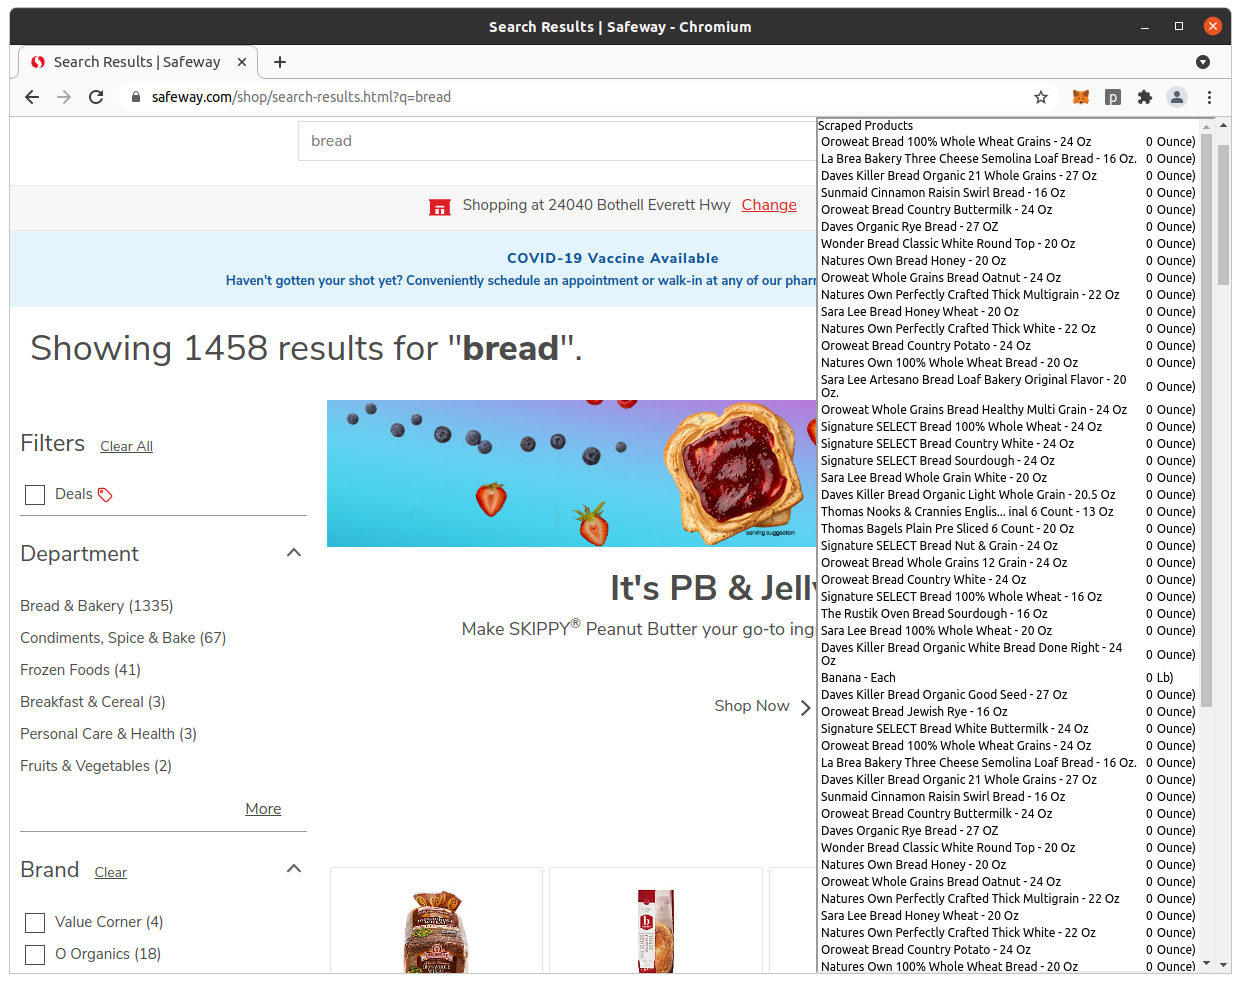
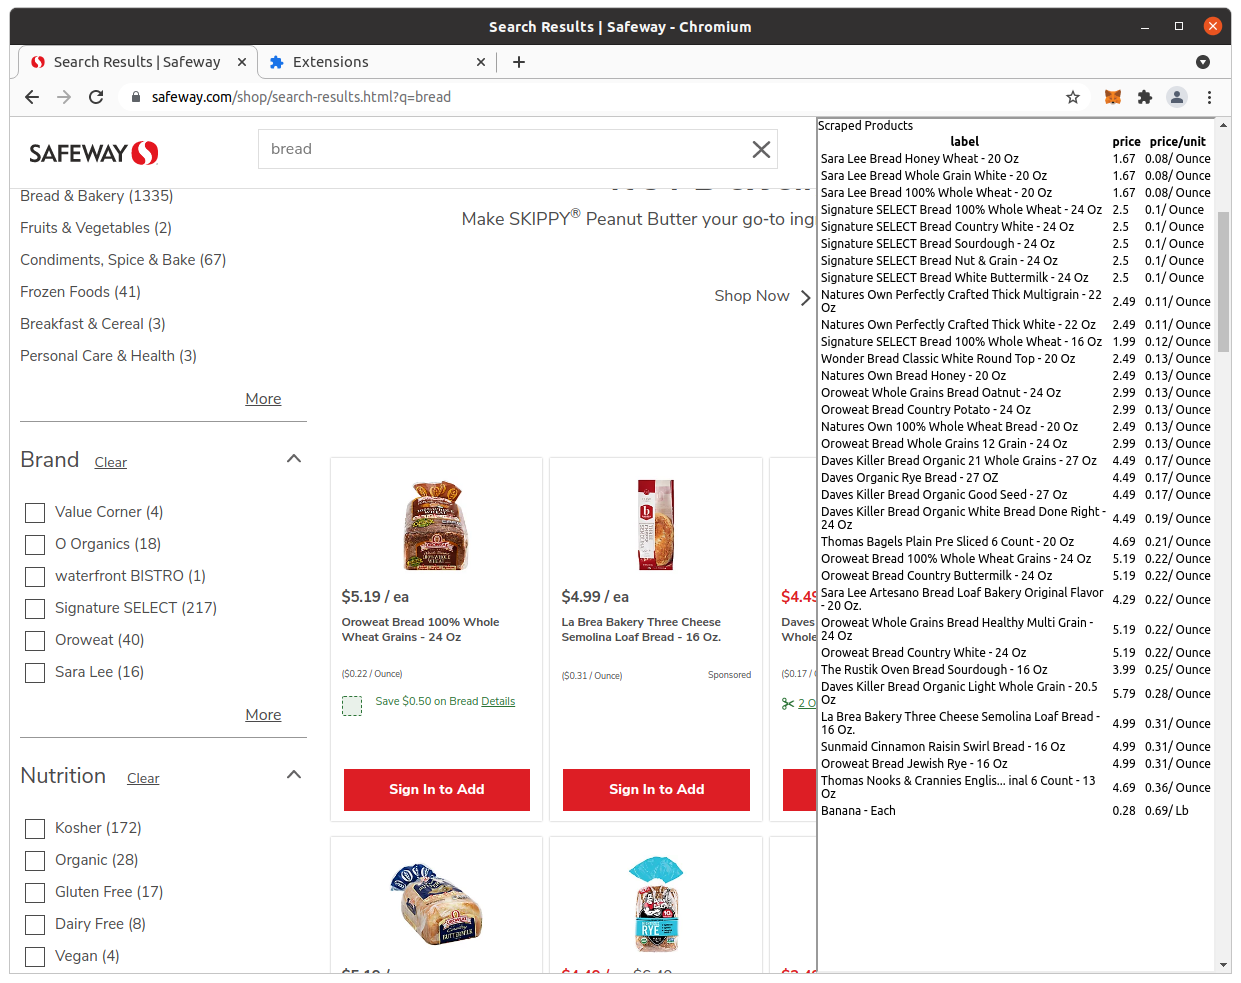
add sorting to list

diff --git a/chrome/src/app/app.component.ts b/chrome/src/app/app.component.ts
@@ -1,6 +1,7 @@
 import { ChangeDetectorRef, Component } from '@angular/core';
 import { Product } from '../models/Product';
 
+
 @Component({
   selector: 'app-root',
   templateUrl: './app.component.html',
@@ -8,6 +9,8 @@ import { Product } from '../models/Product';
 })
 export class AppComponent {
   title = 'chrome';
+  orderbyProp = 'itemLabel';
+  sortOrderAsc = false;
   Products: Product[] = [];
   constructor(private cd: ChangeDetectorRef) {}
   ngOnInit(): void {
@@ -36,11 +39,35 @@ export class AppComponent {
   }
   public updatePage(g_itemLabels:any)
   {
+    if(!g_itemLabels)
+      return;
+    if(!g_itemLabels.table)
+      return;
     for (const key of Object.keys(g_itemLabels.table)) {
       const obj = g_itemLabels.table[key];
       var p = new Product(obj.value.itemLabel, obj.value.itemPrice, obj.value.itemPricePer, obj.value.itemPerUnit )
       this.Products.push(p);
     }
     this.cd.detectChanges();
+  }
+  sort(column:string){
+    if(this.orderbyProp != column){
+      this.orderbyProp = column;
+    }
+    else
+    {
+      this.sortOrderAsc = !this.sortOrderAsc;
+    }
+    /*
+    if(column == "itemLabel"){
+      this.Products.sort((a,b) => a.itemLabel.localeCompare(b.itemLabel));
+    }
+    else if(column == "itemPrice"){
+      this.Products.sort((a, b) => (a.itemPrice < b.itemPrice ? -1 : 1));
+    }
+    else if(column == "itemPricePer"){
+      this.Products.sort((a, b) => (a.itemPricePer < b.itemPricePer ? -1 : 1));
+    }
+    */
   }
 }

diff --git a/chrome/src/content.ts b/chrome/src/content.ts
@@ -26,17 +26,21 @@ let scrape = debounce((currentNode:Node) =>
 		var itemLabel = itemLabelNode.singleNodeValue?.textContent || "";
 		itemLabel = itemLabel.trim();
 		if(!g_itemLabels.containsKey(itemLabel)){
+			console.log('scraping')
 			var itemPriceNode = getFirstOfElementsByXPath(node,'.//*[@data-qa="prd-itm-prc"]');
-			var itemPrice = parseFloat(itemPriceNode.singleNodeValue?.textContent?.trim() || "");
+			//console.log(itemPriceNode)
+			var itemPriceText = itemPriceNode.singleNodeValue?.textContent?.trim() || "";
+			var itemPrice = parseFloat(itemPriceText.replace(/[^0-9.]/g, ''));
 			var itemPriceQuantityNode = getFirstOfElementsByXPath(node,'.//*[@class="product-price-qty"]');
+			//console.log(itemPriceQuantityNode)
 			var pricePerUnitNode = itemPriceQuantityNode.singleNodeValue?.textContent?.trim() || "";
 			var pricePerUnitArray = pricePerUnitNode.split("/")
-			var itemPricePer = parseFloat(pricePerUnitArray[0]) || 0;
-			var itemPerUnit = pricePerUnitArray[1];
+			var itemPricePer = parseFloat(pricePerUnitArray[0].replace(/[^0-9.]/g, '')) || 0;
+			var itemPerUnit = pricePerUnitArray[1].replace(")","");
 			g_itemLabels.setValue(itemLabel,new Product(itemLabel,itemPrice, itemPricePer, itemPerUnit));
 		}
 	};
-	console.log("done crawling");
+	console.log("done scraping");
 	var obj = { message:"initial_loading", g_itemLabels }
 	chrome.runtime.sendMessage(obj, function(response) {
 		console.log(response.farewell);

diff --git a/chrome/src/app/app.component.html b/chrome/src/app/app.component.html
@@ -1,9 +1,18 @@
 <div>Scraped Products</div>
-<table>
-  <tr *ngFor="let product of Products">
-    <td>{{product.itemLabel}}</td>
-    <td>{{product.itemPrice}}</td>
-    <td>{{product.itemPricePer}}</td>
-    <td>{{product.itemPerUnit}}</td>
-  </tr>
+<table class="table">
+  <thead>
+    <tr>
+      <th (click)="sort('itemLabel')" style="cursor: pointer;">label</th>
+      <th (click)="sort('itemPrice')" style="cursor: pointer;">price</th>
+      <th (click)="sort('itemPricePer')" style="cursor: pointer;">price/unit</th>
+    </tr>
+  </thead>
+  <tbody>
+    <!--<tr *ngFor="let product of Products | OrderByPipe: 'itemLabel': 'desc'">-->
+      <tr *ngFor="let product of Products | orderBy: orderbyProp: sortOrderAsc">
+      <td>{{product.itemLabel}}</td>
+      <td>{{product.itemPrice}}</td>
+      <td style="white-space: nowrap;">{{product.itemPricePer}}/{{product.itemPerUnit}}</td>
+    </tr>
+  </tbody>
 </table>

diff --git a/chrome/src/app/orderBy.pipe.ts b/chrome/src/app/orderBy.pipe.ts
@@ -1,0 +1,26 @@
+import { Pipe, PipeTransform } from '@angular/core';
+import * as _ from 'lodash';
+
+@Pipe({
+    name: 'orderBy',
+    pure: false
+})
+export class OrderByPipe implements PipeTransform {
+
+    transform(value: any[], sortBy: string = 'itemLabel', order = false): any[] {
+
+        if (!value || order === false || !order) {
+            return value;
+        } // no array
+
+        if (!sortBy || sortBy === '') {
+            return _.sortBy(value);
+        } // sort 1d array
+
+        if (value.length <= 1) {
+            return value;
+        } // array with only one item
+
+        return _.orderBy(value, [sortBy], [order]);
+    }
+}

diff --git a/chrome/src/app/app.module.ts b/chrome/src/app/app.module.ts
@@ -4,10 +4,12 @@ import { ColorPickerModule } from 'ngx-color-picker';
 
 import { AppRoutingModule } from './app-routing.module';
 import { AppComponent } from './app.component';
+import { OrderByPipe } from './orderBy.pipe';
 
 @NgModule({
   declarations: [
-    AppComponent
+    AppComponent, 
+    OrderByPipe
   ],
   imports: [
     BrowserModule,

diff --git a/chrome/src/app/app.component.less b/chrome/src/app/app.component.less
@@ -1,0 +1,2 @@
+th {margin-left:2px;margin-right:2px}
+td {margin-left:2px;margin-right:2px}

diff --git a/ReadMe.md b/ReadMe.md
@@ -12,6 +12,9 @@ https://stackoverflow.com/questions/67565858/angular-12-css-optimization-inline-
 
 https://github.com/just-jeb/angular-builders/issues/341
 
+https://github.com/YannMjl/Ng-read-localJSON/blob/ng_pipe/src/app/shared/orderBy.pipe.ts
+
+
 ## Build
 
 cd chrome
